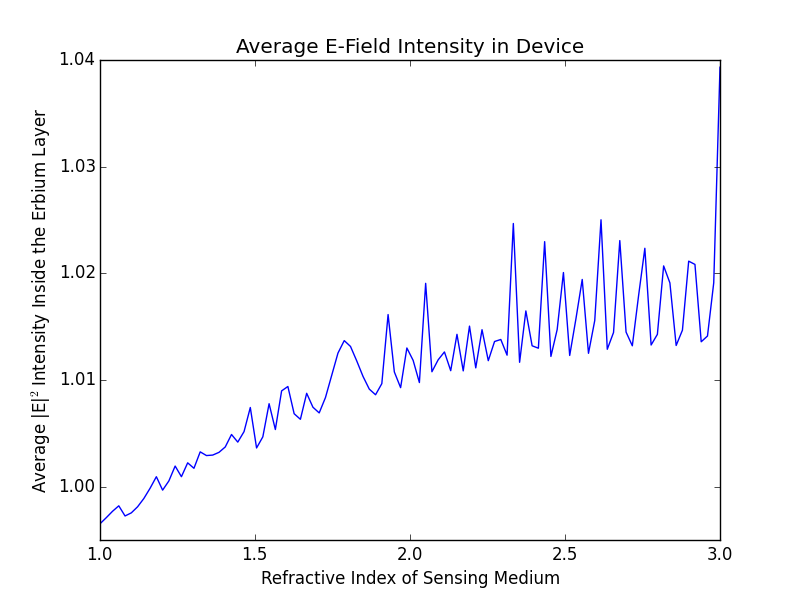
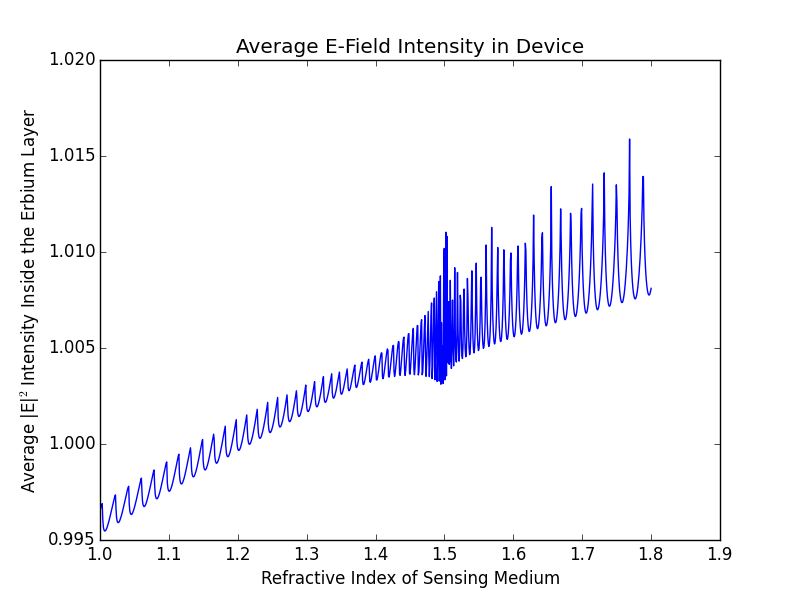
many figs for meeting

diff --git a/lifetmm/examples.py b/lifetmm/examples.py
@@ -133,13 +133,15 @@ def sample1():
 
     data = np.zeros(sum(d_list[1:-1]))
 
-    nRange = linspace(1, 3, num=100)
+    nRange = linspace(1, 1.8, num=200)
+
     ydata = np.zeros(len(nRange))
     for i, n in enumerate(nRange):
         print('i is %d and n is %f' % (i, n))
         E_avg = 0
         runs = 0
         n_list[2] = n
+        print('i is %d and n is %f' % (i, n_list[2]))
         for th in th_0:
             for pol in ['s', 'p']:
                 for rev in [True, False]:
@@ -155,13 +157,12 @@ def sample1():
     # E_avg /= runs
 
     # print(ydata)
-
     plt.figure()
     plt.plot(nRange, ydata)
     plt.xlabel('Refractive Index of Sensing Medium')
     plt.ylabel('Average |E|$^2$Intensity Inside the Erbium Layer')
     plt.title('Average E-Field Intensity in Device')
-    plt.savefig('figs/erlayersandwich2.png')
+    plt.savefig('figs/erlayersandwich2lowres.png')
     plt.show()
 
 
@@ -298,4 +299,140 @@ def samplePol():
     # plt.savefig('moreColors.png')
     plt.show()
 
-sample1()
+def amerov():
+    """
+    Vary the refractive index of the medium and evaluate the average electric field strength
+    inside the erbium layer compared to in bulk
+    """
+    # Loop parameters
+    # list of wavelengths to evaluate
+    lambda_vac = 1537
+    # incoming light angle (in degrees)
+    th_0 = linspace(0, 90, num=90, endpoint=False)
+
+    # list of layer thicknesses in nm. First and last layer are semi-infinite ambient and substrate layers
+    d_list = [inf, 1000, inf]
+    # list of refractive indices
+    n_list = [1.5, 1.5, 3]
+    n_listB = [1.5, 1.5, 1]
+
+    mM = linspace(60, 100, num=200)
+    nRange = [2.73E-5 * x + 1.37 for x in mM]
+    # nRange = 1.325 + mM * 2.73E-5
+
+    ydata = np.zeros(len(nRange))
+    for i, n in enumerate(nRange):
+        print('i is %d and n is %f' % (i, n))
+        E_avg = 0
+        runs = 0
+        n_list[2] = n
+        print('i is %d and n is %f' % (i, n_list[2]))
+        for th in th_0:
+            for pol in ['s', 'p']:
+                for rev in [True, False]:
+                    runs += 1
+                    # data += (TransferMatrix(d_list, n_list, lambda_vac, th * degree, pol, reverse=rev)['E_square'] /
+                    #          TransferMatrix(d_list, n_listB, lambda_vac, th * degree, pol, reverse=rev)['E_square'])
+
+                    E_avg += (TransferMatrix(d_list, n_list, lambda_vac, th * degree, pol, reverse=rev)['E_avg'][1])
+        ydata[i] = E_avg/runs
+
+    plt.figure()
+    plt.plot(mM, 1/ydata)
+    plt.xlabel('Glucose concentration in water (mM)')
+    plt.ylabel('Lifetime (1/E^2)')
+    plt.title('Average E-Field Intensity in Device')
+    plt.savefig('figs/amerov1p37_3.png')
+    plt.show()
+
+def finger():
+    """
+    Vary the refractive index of the medium and evaluate the average electric field strength
+    inside the erbium layer compared to in bulk
+    """
+    # Loop parameters
+    # list of wavelengths to evaluate
+    lambda_vac = 1537
+    # incoming light angle (in degrees)
+    th_0 = linspace(0, 90, num=90, endpoint=False)
+
+    # list of layer thicknesses in nm. First and last layer are semi-infinite ambient and substrate layers
+    d_list = [inf, 1000, 100, 1E5, inf]
+    # list of refractive indices
+    n_list = [1.5, 1.5, 1, 1.37, 1.37]
+
+    mM = linspace(0, 20, num=20)
+    nRange = [2.73E-5 * x + 1.37 for x in mM]
+    # nRange = 1.325 + mM * 2.73E-5
+
+    ydata = np.zeros(len(nRange))
+    for i, n in enumerate(nRange):
+        print('i is %d and n is %f' % (i, n))
+        E_avg = 0
+        runs = 0
+        n_list[4] = n
+        print('i is %d and n is %f' % (i, n_list[4]))
+        for th in th_0:
+            for pol in ['s', 'p']:
+                for rev in [True, False]:
+                    runs += 1
+                    # data += (TransferMatrix(d_list, n_list, lambda_vac, th * degree, pol, reverse=rev)['E_square'] /
+                    #          TransferMatrix(d_list, n_listB, lambda_vac, th * degree, pol, reverse=rev)['E_square'])
+
+                    E_avg += (TransferMatrix(d_list, n_list, lambda_vac, th * degree, pol, reverse=rev)['E_avg'][1])
+        ydata[i] = E_avg/runs
+
+    plt.figure()
+    plt.plot(mM, 1/ydata)
+    plt.xlabel('Glucose concentration in water (mM)')
+    plt.ylabel('Lifetime (1/E^2)')
+    plt.title('Average E-Field Intensity in Device')
+    plt.savefig('figs/finger.png')
+    plt.show()
+
+def finger2():
+    """
+    Vary the refractive index of the medium and evaluate the average electric field strength
+    inside the erbium layer compared to in bulk
+    """
+    # Loop parameters
+    # list of wavelengths to evaluate
+    lambda_vac = 1537
+    # incoming light angle (in degrees)
+    th_0 = linspace(0, 90, num=90, endpoint=False)
+
+    # list of layer thicknesses in nm. First and last layer are semi-infinite ambient and substrate layers
+    d_list = [inf, 1000, 100, inf]
+    # list of refractive indices
+    n_list = [1.5, 1.5, 1, 1.37]
+
+    mM = linspace(0, 40, num=200)
+    nRange = [2.73E-4 * x + 1.325 for x in mM]
+    # nRange = 1.325 + mM * 2.73E-5
+
+    ydata = np.zeros(len(nRange))
+    for i, n in enumerate(nRange):
+        # print('i is %d and n is %f' % (i, n))
+        E_avg = 0
+        runs = 0
+        n_list[3] = n
+        print('i is %d and n is %f' % (i, n_list[3]))
+        for th in th_0:
+            for pol in ['s', 'p']:
+                for rev in [True, False]:
+                    runs += 1
+                    # data += (TransferMatrix(d_list, n_list, lambda_vac, th * degree, pol, reverse=rev)['E_square'] /
+                    #          TransferMatrix(d_list, n_listB, lambda_vac, th * degree, pol, reverse=rev)['E_square'])
+
+                    E_avg += (np.cos(th*degree)*TransferMatrix(d_list, n_list, lambda_vac, th * degree, pol, reverse=rev)['E_avg'][1])
+        ydata[i] = E_avg/runs
+
+    plt.figure()
+    plt.plot(mM, 1/ydata)
+    plt.xlabel('Glucose concentration in water (mM)')
+    plt.ylabel('Lifetime (1/E^2)')
+    plt.title('Average E-Field Intensity in Device')
+    plt.savefig('figs/finger2_weighted_largerchange.png')
+    plt.show()
+
+finger2()
